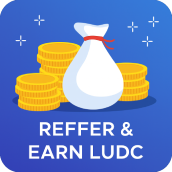
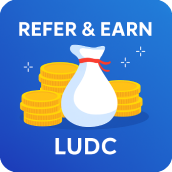
updates on timers and sweepers

diff --git a/LudoClient/WalletPage.xaml b/LudoClient/WalletPage.xaml
@@ -30,19 +30,18 @@
 
             <local:Capsule ImageSource="friendlong.png" Grid.Row="3" Grid.Column="1" Padding="0,0,0,20" HorizontalOptions="Fill" VerticalOptions="Fill">
                 <Grid Margin="6" HorizontalOptions="Fill" VerticalOptions="Fill" ColumnDefinitions="1*,2*,2.4*">
-                    <Image Source="ic_total_wallet.png" Margin="3" VerticalOptions="Center" HorizontalOptions="Start"/>
-                    <Label Text="Total Winnings" Grid.Column="1" HorizontalTextAlignment="Start" TextColor="White" HorizontalOptions="Fill" VerticalOptions="Center"/>
+                    <Image Source="solicon.png" Margin="3" VerticalOptions="Center" HorizontalOptions="Start"/>
+                    <Label Text="Total Balance" Grid.Column="1" HorizontalTextAlignment="Start" TextColor="White" HorizontalOptions="Fill" VerticalOptions="Center"/>
                     
                     <Grid Grid.Column="2" Margin="5,8,5,8" HorizontalOptions="Fill" VerticalOptions="Fill">
-                        <Frame BackgroundColor="#60000000" CornerRadius="4" Padding="30,-5,30,-5" HorizontalOptions="Fill" VerticalOptions="Fill"/>
-                        <Image Source="solicon.png" Margin="4" VerticalOptions="Center" HorizontalOptions="Start"/>
-                        <Label x:Name="Coins" Text="0.99 LUDC" TextColor="White" HorizontalOptions="End" VerticalOptions="Fill" Margin="0,0,4,0"/>
+                        <Frame BackgroundColor="#60000000" CornerRadius="4" Padding="30,-5,30,-5" HorizontalOptions="Fill" VerticalOptions="Fill"/>                        
+                        <Label x:Name="Coins" Text="0.00 LUDC" TextColor="White" HorizontalOptions="End" VerticalOptions="Fill" Margin="0,0,4,0"/>
                     </Grid>
                 </Grid>
             </local:Capsule>
 
 
-            <local:Capsule IsVisible="False" ImageSource="line_bg_orange.png" Grid.Row="5" Grid.Column="1" HorizontalOptions="Fill" VerticalOptions="Fill">
+            <local:Capsule IsVisible="false" ImageSource="line_bg_orange.png" Grid.Row="5" Grid.Column="1" HorizontalOptions="Fill" VerticalOptions="Fill">
                 <Grid>
                     <Grid.GestureRecognizers>
                         <TapGestureRecognizer Tapped="OnDepositButtonClicked" />
@@ -62,8 +61,8 @@
                 <StackLayout Margin="8" Spacing="5" Orientation="Horizontal" HorizontalOptions="Fill" VerticalOptions="Center">
                     <Image Source="reffer_earn.png" VerticalOptions="Center" HorizontalOptions="Start"/>
                     <StackLayout Spacing="5" HorizontalOptions="FillAndExpand" VerticalOptions="Center">
-                        <Label Text="Reffer and Earn" FontSize="17" TextColor="Black" Margin="0,-2,0,-2" VerticalOptions="Start" HorizontalOptions="Start"/>
-                        <Label Text="Reffer Friends and Win LudCoin" FontSize="12" Margin="0,-4,0,0" TextColor="Black" VerticalOptions="Start" HorizontalOptions="Start"/>
+                        <Label Text="Refer and Earn" FontSize="17" TextColor="Black" Margin="0,-2,0,-2" VerticalOptions="Start" HorizontalOptions="Start"/>
+                        <Label Text="Refer Friends and Win LudCoin" FontSize="12" Margin="0,-4,0,0" TextColor="Black" VerticalOptions="Start" HorizontalOptions="Start"/>
                         <StackLayout Spacing="5" Orientation="Horizontal" VerticalOptions="EndAndExpand" HorizontalOptions="Fill" >
                             <Image Source="btn_whatsapp.png" VerticalOptions="Fill" HorizontalOptions="Start"/>
                             <Image Source="btn_share_link.png" VerticalOptions="Fill" HorizontalOptions="StartAndExpand"/>
@@ -101,7 +100,7 @@
                         <Grid HorizontalOptions="Fill" VerticalOptions="Fill" RowDefinitions=".6*,.4*" ColumnDefinitions=".3*,.7*">
                             <Image Margin="4" Source="subinfo_3.png" VerticalOptions="Center" HorizontalOptions="Start"/>
                             <StackLayout Margin="4" Grid.Column="1" VerticalOptions="Center" HorizontalOptions="Fill">
-                                <Label Text="SURPRICE" TextColor="White" HorizontalTextAlignment="Start"/>
+                                <Label Text="SURPRISE" TextColor="White" HorizontalTextAlignment="Start"/>
                                 <Label Text="Bonus" TextColor="White" HorizontalTextAlignment="Start"/>
                             </StackLayout>
                             <Label Text="0.00 LUDC" Margin="0,0,0,4" Grid.Row="1" Grid.ColumnSpan="2" TextColor="Black" VerticalOptions="Center" HorizontalOptions="Center"/>

diff --git a/LudoClient/GameSettingsPages/CashGame.xaml b/LudoClient/GameSettingsPages/CashGame.xaml
@@ -71,9 +71,9 @@
                 </Grid>
             </Grid>
         </local:Capsule>
-        <StackLayout Grid.Row="2" Grid.Column="1" Padding="0,1,0,0" HeightRequest="20" Orientation="Horizontal" HorizontalOptions="Center" VerticalOptions="CenterAndExpand">
-            <Label Text="Win Fee" Margin="5,0,6,0" HorizontalOptions="Start"/>
-            <Image Source="solicon.png" Margin="-4,2,3,0" HorizontalOptions="Start" />
+        <StackLayout Grid.Row="2" Grid.Column="1" Padding="0,1,0,0" HeightRequest="25" Orientation="Horizontal" HorizontalOptions="Center" VerticalOptions="CenterAndExpand">
+            <Label Text="Win Amount" Margin="5,0,10,0" HorizontalOptions="Start"/>
+            <Image Source="solicon.png" Margin="-4,2,4,0" HorizontalOptions="Start" />
             <Label x:Name="WinLabel"  HorizontalOptions="Start" VerticalOptions="Fill"/>
         </StackLayout>
         <local:BottomNavigation Grid.Row="7" Grid.ColumnSpan="5"/>

diff --git a/LudoClient/Popups/ProfileInfo.xaml.cs b/LudoClient/Popups/ProfileInfo.xaml.cs
@@ -22,9 +22,9 @@ public partial class ProfileInfo : BasePopup
             C1.setValue(UserInfo.Instance.player.GamesPlayed + "");
             C2.setValue(UserInfo.Instance.player.GamesWon + "");
             C3.setValue(UserInfo.Instance.player.GamesLost + "");
-            C4.setValue(UserInfo.Instance.player.BestWin + "");
-            C5.setValue(UserInfo.Instance.player.TotalWin + "");
-            C6.setValue(UserInfo.Instance.player.TotalLost + "");
+            C4.setValue(Math.Floor(UserInfo.Instance.player.BestWin * 100) / 100 + " LUDC");
+            C5.setValue(Math.Floor(UserInfo.Instance.player.TotalWin * 100) / 100 + " LUDC");
+            C6.setValue(Math.Floor(UserInfo.Instance.player.TotalLost * 100) / 100 + " LUDC");
             player.SetScore(UserInfo.Instance.player.Score, UserInfo.Instance.player.PhoneNumber != "###########");
             loadValues();
         });
@@ -37,9 +37,9 @@ public partial class ProfileInfo : BasePopup
             C1.setValue(dto.GamesPlayed + "");
             C2.setValue(dto.GamesWon + "");
             C3.setValue(dto.GamesLost + "");
-            C4.setValue(dto.BestWin + "");
-            C5.setValue(dto.TotalWin + "");
-            C6.setValue(dto.TotalLost + "");
+            C4.setValue(Math.Floor(dto.BestWin * 100) / 100 + " LUDC");
+            C5.setValue(Math.Floor(dto.TotalWin * 100) / 100 + " LUDC");
+            C6.setValue(Math.Floor(dto.TotalLost * 100) / 100 + " LUDC");
             if (dto.PhoneNumber != null)
             {
                 Preferences.Set(nameof(UserInfo.Instance.player.PhoneNumber), dto.PhoneNumber);

diff --git a/LudoClient/App.xaml.cs b/LudoClient/App.xaml.cs
@@ -42,6 +42,7 @@ namespace LudoClient
                 GlobalConstants.MatchMaker.RoomJoined += OnRoomJoined;
                 GlobalConstants.MatchMaker.GameStarted += OnGameStarted;
                 GlobalConstants.MatchMaker.ShowResults += OnShowResults;
+                SetOnline();
             });
             if (isUserLoggedIn)
             {
@@ -178,6 +179,29 @@ namespace LudoClient
                 ClientGlobalConstants.dashBoard.Navigation.PushAsync(new GameRoom(args.GameType, args.GameCost, args.RoomCode));
                 ClientGlobalConstants.FlushOld();
             });
+        }
+
+        protected async Task SetOnline()
+        {
+            while (true)
+            {
+                if (GlobalConstants.MatchMaker != null && GlobalConstants.MatchMaker.Connected && GlobalConstants.MatchMaker._hubConnection.State != HubConnectionState.Disconnected)
+                {
+                    try
+                    {
+                        UserInfo.Instance.player = await GlobalConstants.MatchMaker.UserConnectedSetID();
+                        if (UserInfo.Instance.player != null)
+                        {
+                            UserInfo.SaveState();
+                        }
+                    }
+                    catch (Exception ex)
+                    {
+                        Console.WriteLine(ex);
+                    }
+                }
+                await Task.Delay(TimeSpan.FromSeconds(10));
+            }
         }
 #if WINDOWS
         protected override Window CreateWindow(IActivationState activationState)

diff --git a/LudoClient/ControlView/GameDetailList.xaml.cs b/LudoClient/ControlView/GameDetailList.xaml.cs
@@ -23,7 +23,7 @@ namespace LudoClient.ControlView
             // Set the text of the labels
             GameId.Text = "Game : " + gameId.ToString();
 
-            JoiningFeeLabel.Text = $"{betAmount}";
+            JoiningFeeLabel.Text = $"{Math.Floor((betAmount) * 100) / 100}";
             RoomCode = roomCode;
 
             if (gameType == "22")
@@ -34,9 +34,9 @@ namespace LudoClient.ControlView
                 TotalPlayersLabel.Text = $"1 vs {gameType} Players - 1 Winner";
 
             if (gameType == "22")
-                priceamount = 2 * betAmount;
+                priceamount = Math.Floor((2 * betAmount) * 100) / 100;
             else
-                priceamount = Int32.Parse(gameType) * betAmount;
+                priceamount = Math.Floor((Int32.Parse(gameType) * betAmount) * 100) / 100;
 
             PrizeAmountLabel.Text = $"{priceamount}";
         }
@@ -48,7 +48,7 @@ namespace LudoClient.ControlView
             GameDto gameDto = new GameDto();
             gameDto.GameType = gameType; // Set the game type based on the active tab
             gameDto.IsPracticeGame = false; // Set the practice game flag
-            gameDto.BetAmount = betAmount;            
+            gameDto.BetAmount = betAmount;
             gameDto.RoomCode = RoomCode;
             gameDto.PlayerCount = int.Parse(gameType);
             if (gameDto.PlayerCount == 22)

diff --git a/LudoClient/DashboardPage.xaml.cs b/LudoClient/DashboardPage.xaml.cs
@@ -58,7 +58,7 @@ public partial class DashboardPage : ContentPage
         else
             MainThread.BeginInvokeOnMainThread(() =>
             {
-                Toast.Make("Not enough balance!", ToastDuration.Long, 24).Show();
+                Toast.Make("Not enough coins!", ToastDuration.Long, 24).Show();
             });
         
     }
@@ -81,7 +81,7 @@ public partial class DashboardPage : ContentPage
         else
             MainThread.BeginInvokeOnMainThread(() =>
             {
-                Toast.Make("Not enough balance!", ToastDuration.Long, 24).Show();
+                Toast.Make("Not enough coins!", ToastDuration.Long, 24).Show();
             });
     }
     private void Practice_Clicked(object sender, EventArgs e)

diff --git a/SignalR/SignalR.Server/CryptoHelper.cs b/SignalR/SignalR.Server/CryptoHelper.cs
@@ -356,7 +356,8 @@ namespace SignalR.Server
                         Description = $"On-chain sweep",
                         IsOnChain = true,
                         RoomCode = "",
-                        txId = txId
+                        txId = txId,
+                        CreatedDate = DateTime.UtcNow
                     });
 
                     ctx.PlayerWallet.Update(sub);
@@ -430,7 +431,7 @@ namespace SignalR.Server
                 {
                     Console.WriteLine($"Error sweeping sub-accounts: {ex.Message}");
                 }
-                await Task.Delay(TimeSpan.FromMinutes(1), stoppingToken);
+                await Task.Delay(TimeSpan.FromSeconds(10), stoppingToken);
             }
         }
     }

diff --git a/LudoClient/Platforms/Android/MainActivity.cs b/LudoClient/Platforms/Android/MainActivity.cs
@@ -29,10 +29,10 @@ namespace LudoClient
         }
         protected override void OnCreate(Bundle savedInstanceState)
         {
-            base.OnCreate(savedInstanceState);            
-            string sha1 = GetApkSignatureSha1(this);
-            GlobalConstants.sha1 = sha1;
-            Console.WriteLine($"My APK SHA-1 = {sha1}");
+            base.OnCreate(savedInstanceState);
+            //string sha1 = GetApkSignatureSha1(this);
+            //GlobalConstants.sha1 = sha1;
+            //Console.WriteLine($"My APK SHA-1 = {sha1}");
             UserDialogs.Init(this);
         }
         public static string GetApkSignatureSha1(Context context)

diff --git a/SignalR/SignalR.Server/LudoHub.cs b/SignalR/SignalR.Server/LudoHub.cs
@@ -4,6 +4,7 @@ using LudoServer.Models;
 using Microsoft.AspNetCore.SignalR;
 using Microsoft.EntityFrameworkCore;
 using Newtonsoft.Json;
+using Org.BouncyCastle.Cms;
 using SharedCode;
 using SharedCode.Constants;
 using System.Collections.Concurrent;
@@ -607,6 +608,7 @@ namespace SignalR.Server
                 // Transfer bonus logic here
                 int bonusAmount = 10;
                 //await TransferBonusToPlayer(playerId, bonusAmount); // <- Your own logic/method
+                bool credited = await _crypto.OffChainTransaction(player.PlayerId, bonusAmount, "Daily Bonus", "", false, "");
             }
 
             return new DailyBonusDto

diff --git a/SharedCode/Constants/GlobalConstants.cs b/SharedCode/Constants/GlobalConstants.cs
@@ -8,8 +8,8 @@ namespace SharedCode.Constants
     {
         public static string sha1 = "";
         public static int GameHistorySaveIndex = 0;
-        public static readonly decimal initialEntry = (decimal)0.1;
-        public static readonly bool Debug = false;
+        public static readonly decimal initialEntry = (decimal)1;
+        public static readonly bool Debug = true;
         public static readonly string Url;
         public static readonly string BaseUrl;
         public static readonly string HubUrl;

diff --git a/LudoClient/ControlView/HeaderCV.xaml.cs b/LudoClient/ControlView/HeaderCV.xaml.cs
@@ -21,7 +21,7 @@ public partial class HeaderCV : ContentView
         });
 
         // Initialize and start the timer
-        _qrCodeTimer = new System.Timers.Timer(30000); // 60,000 milliseconds = 60 seconds
+        _qrCodeTimer = new System.Timers.Timer(1000); // 60,000 milliseconds = 60 seconds
         _qrCodeTimer.Elapsed += async (sender, e) => await UpdateBalance();
         _qrCodeTimer.AutoReset = true;
         _qrCodeTimer.Enabled = true;
